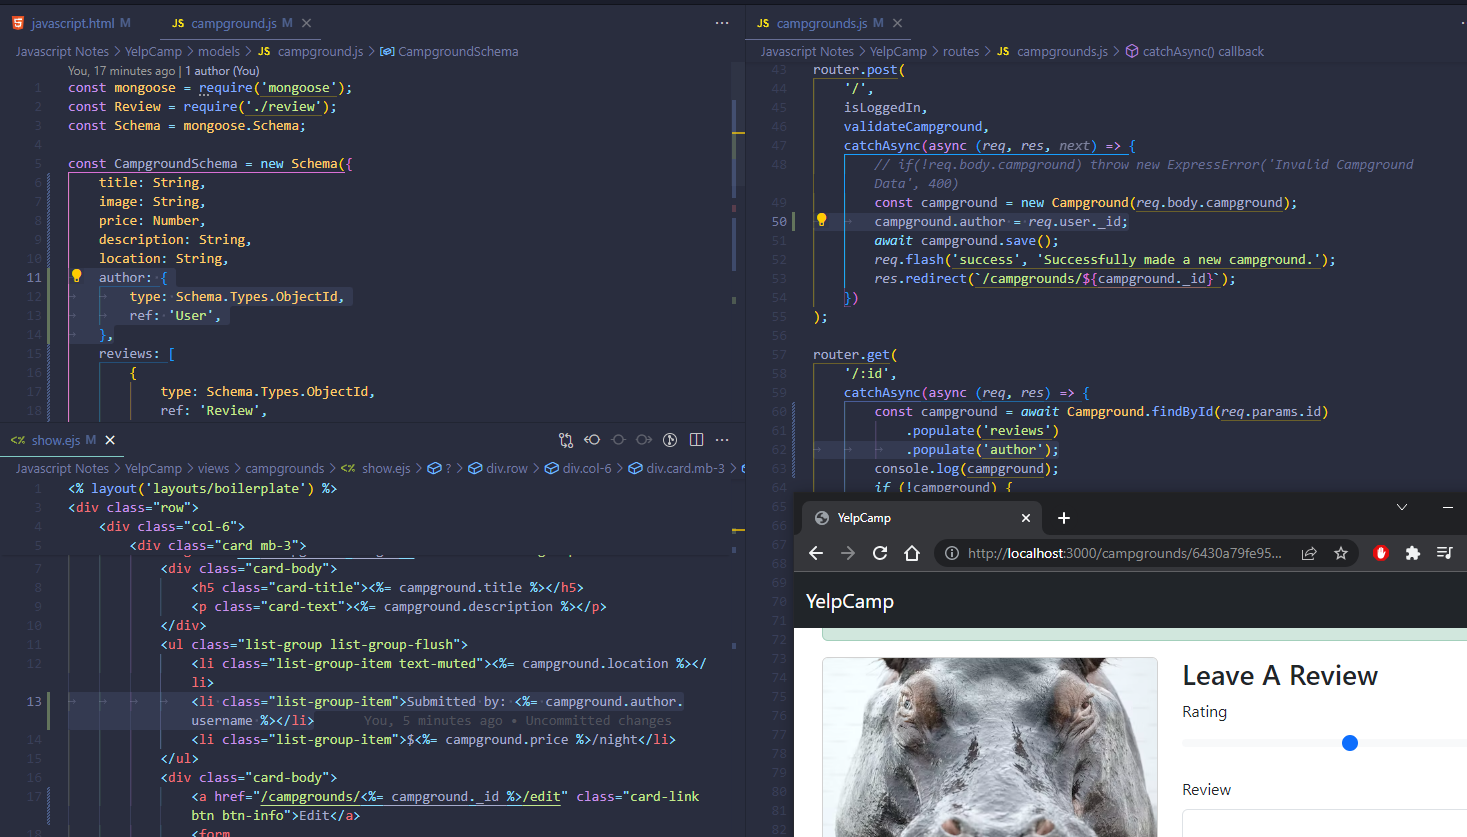
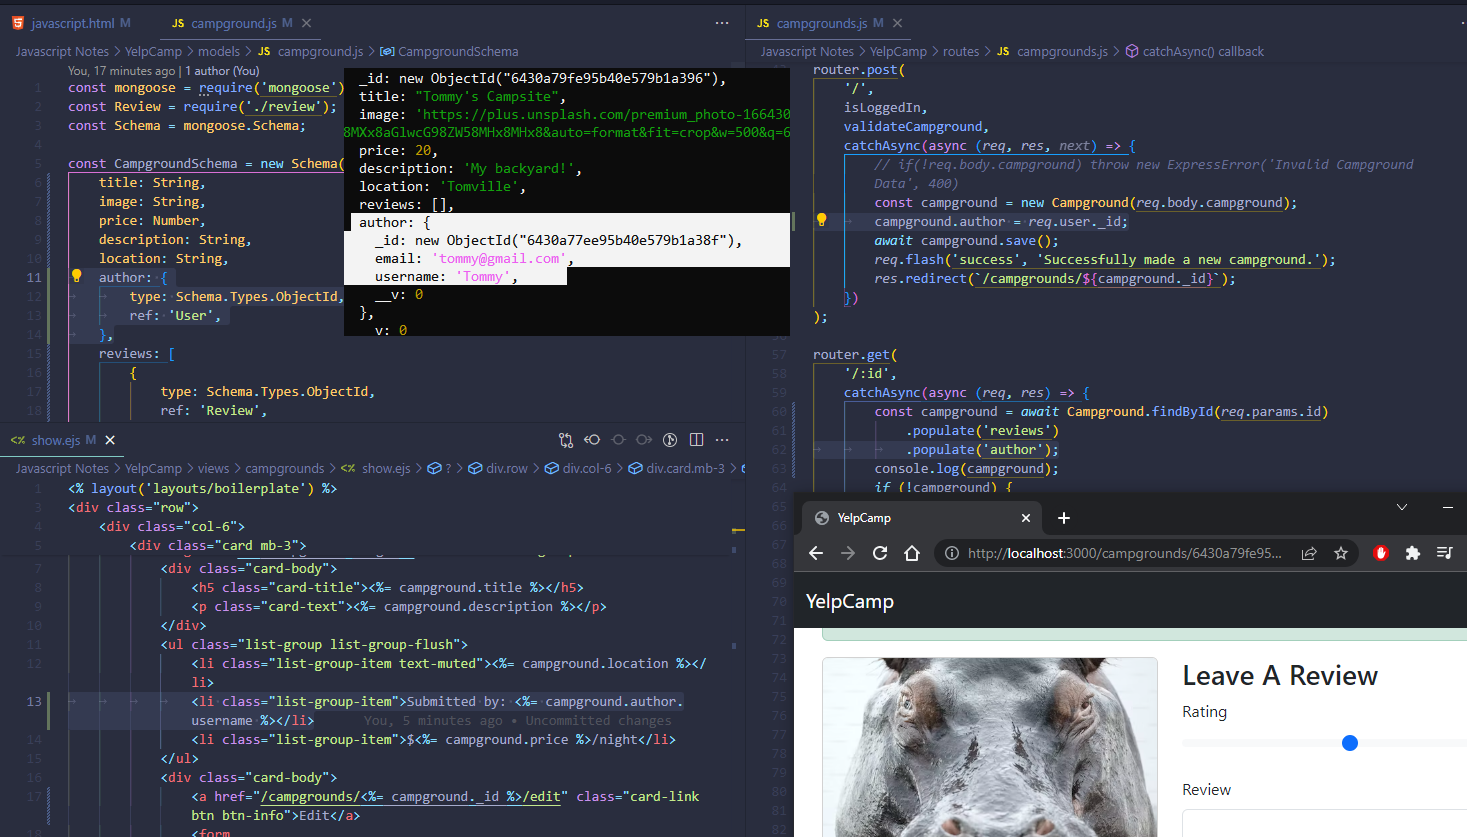
Showing and Hiding Edit/Delete

Changed region(s): [[0.2147, 0.0621, 0.5521, 0.4038]]

diff --git a/Javascript Notes/javascript.html b/Javascript Notes/javascript.html
@@ -536,7 +536,7 @@
             <li><a href="#yelpcamp-basic-authorization">YelpCamp Basic Authorization</a>
                 <ul>
                     <li><a href="#adding-author">Adding An Author</a></li>
-                    <li><a href="#"></a></li>
+                    <li><a href="#show-and-hide-edit-delete">Show and Hide Edit/Delete</a></li>
                     <li><a href="#"></a></li>
                     <li><a href="#"></a></li>
                     <li><a href="#"></a></li>
@@ -3711,8 +3711,8 @@
                         <img src="YelpCamp\yelpcamp photos\basic-authorization1.PNG" alt="">
             </div>
 
-            <div id="">
-                <h3></h3>
+            <div id="show-and-hide-edit-delete">
+                <h3>Show and Hide Edit/Delete</h3>
                     <li><a href=""></a></li>
                         <img src="YelpCamp\yelpcamp photos\basic-authorization2.PNG" alt="">
             </div>

diff --git a/Javascript Notes/YelpCamp/routes/campgrounds.js b/Javascript Notes/YelpCamp/routes/campgrounds.js
@@ -60,7 +60,7 @@ router.get(
 		const campground = await Campground.findById(req.params.id)
 			.populate('reviews')
 			.populate('author');
-		console.log(campground);
+		// console.log(campground);
 		if (!campground) {
 			req.flash('error', 'Campground not found.');
 			return res.redirect('/campgrounds');
